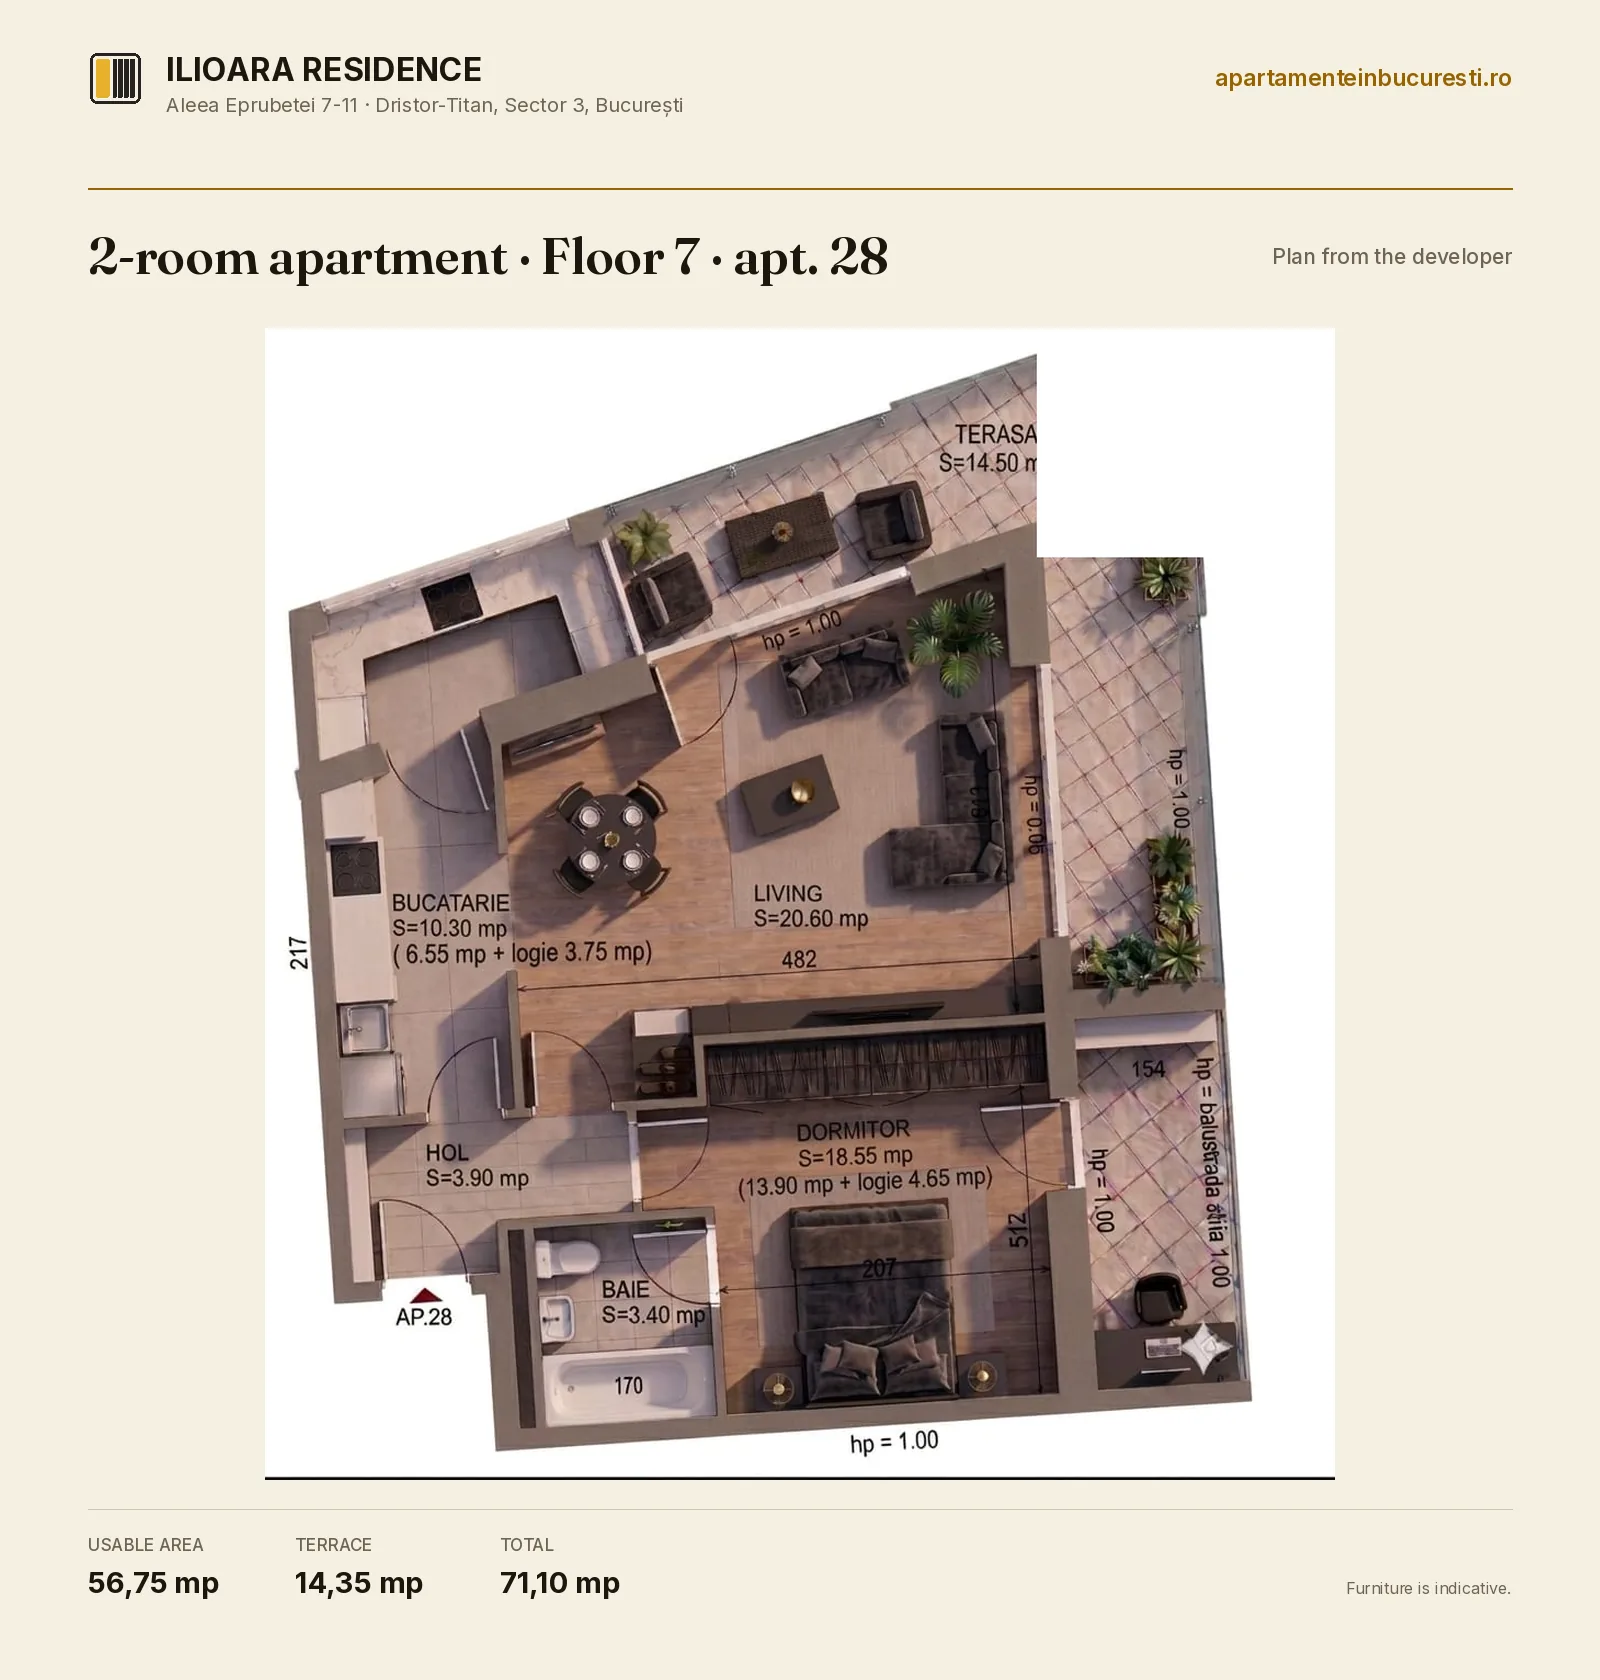
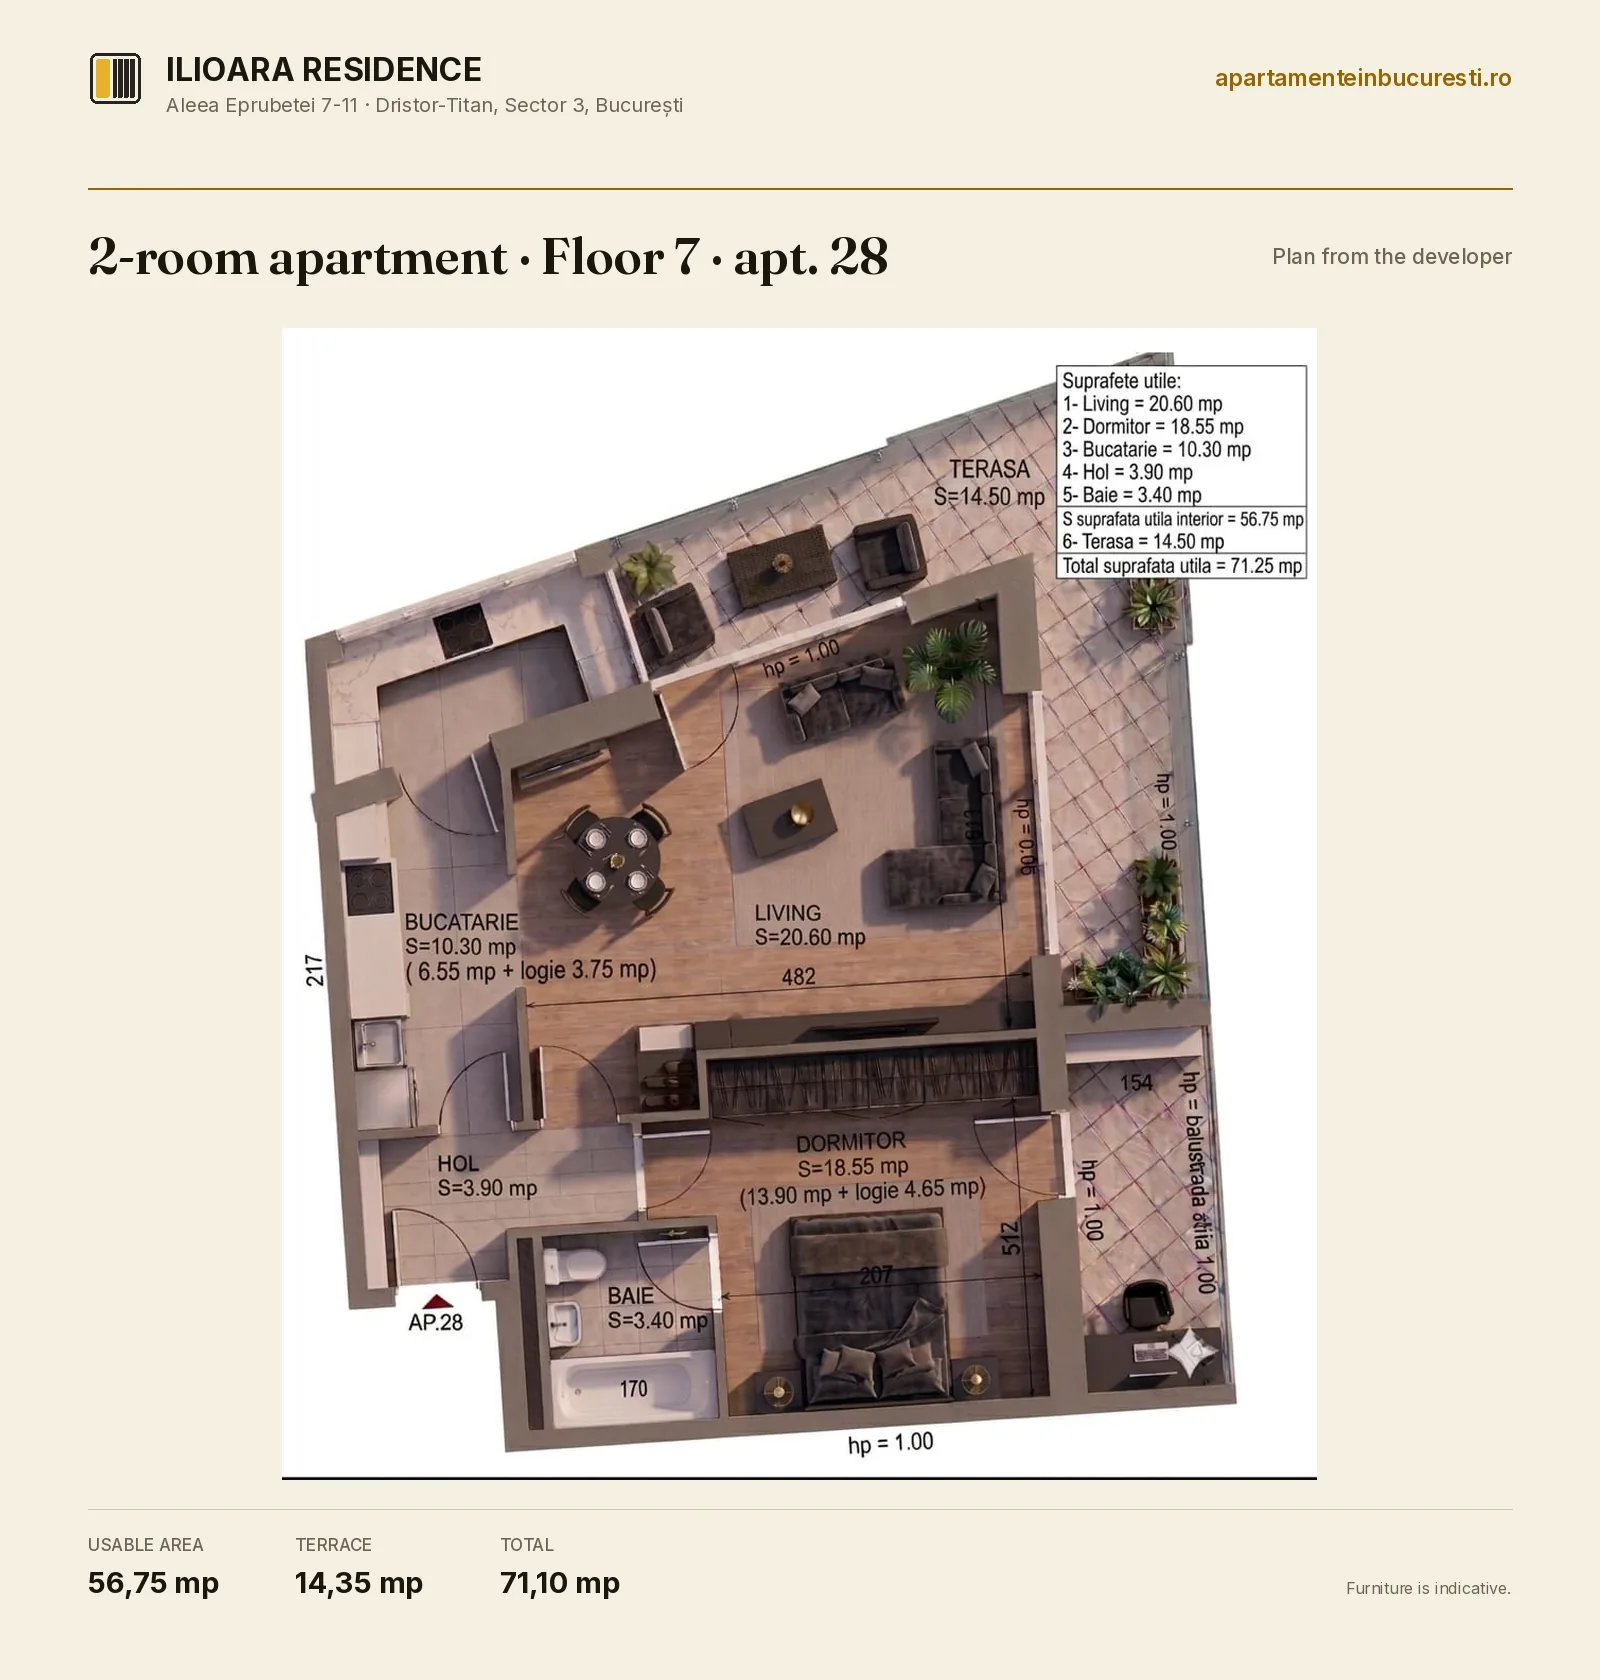
Etajul 7: casetele dezvoltatorului stau PESTE desen pe toate trei. Raman, si se explica
Diagnosticul, facut cu diff de pixeli, nu cu ochiul: am marcat pe original exact ce
sterge fiecare masca. Rezultat, caseta de suprafete se suprapune peste randare pe TOATE
cele trei planse de etaj 7, nu doar pe ap. 31:
- ap. 28: 25.376 pixeli de desen stersi, coltul terasei
- ap. 30: 32.246 pixeli de desen stersi
- ap. 31: la fel, gasit mai devreme

Deci se sterge doar ANTETUL, care sta pe hartie curata: ap. 28 y 0 - 0,030 (textul se
termina la 0,025), ap. 30 y 0 - 0,030, ap. 31 y 0 - 0,130. Casetele raman pe imagine.

Unde cifra lui difera de a noastra, o explica pagina:
- ap. 28: randarea scrie 71,25, lista de preturi zice 71,10. Nota adaugata, 5 limbi.
- ap. 31: 66,97 fata de 65,90. Nota exista deja.
- ap. 30: randarea scrie 66,75, la fel ca lista. Nimic de explicat.

Verificare noua, la marime reala si automata: caut blocuri albe dreptunghiulare in
interiorul desenului, care nu ating marginea. Zero pe toate cele 12. Contact sheet-ul
la 420px nu putea prinde asta.

Claude-Session: https://claude.ai/code/session_01L1B55aKnmJNQfi41fCw1wB

Changed region(s): [[0.1562, 0.1857, 0.8438, 0.8976]]

diff --git a/uk/apartamente/apartament-2-camere-etaj-7-ap-28/index.html b/uk/apartamente/apartament-2-camere-etaj-7-ap-28/index.html
@@ -155,7 +155,7 @@ body.mn-open .mn-x{opacity:1;visibility:visible;transition:opacity .4s ease .15s
 <h2 class="rv" data-fx="slide">План квартири</h2>
 <figure class="plan rv" data-fx="rise">
   <a href="/planuri/plan-ap-28-en-v2.webp" target="_blank" rel="noopener"><img src="/planuri/plan-ap-28-en-v2.webp" width="1600" height="1680" alt="План квартири 28, 2 кімнати, поверх 7, Ilioara Residence, Aleea Eprubetei 7-11" loading="lazy" decoding="async"></a>
-  <figcaption>План від забудовника. Корисна площа <b>56,75 м²</b>, тераса <b>14,35 м²</b>, разом <b>71,10 м²</b>. Меблі показано умовно.<br><a class="lupa" href="/planuri/plan-ap-28-en-v2.webp" target="_blank" rel="noopener">Відкрити план у повному розмірі &rarr;</a></figcaption>
+  <figcaption>План від забудовника. Корисна площа <b>56,75 м²</b>, тераса <b>14,35 м²</b>, разом <b>71,10 м²</b>. Меблі показано умовно. У рендері забудовника зазначено <b>71,25 м²</b> разом. Цифра, за якою продаємо, <b>71,10 м²</b>, узята з його переліку цін від червня 2026.<br><a class="lupa" href="/planuri/plan-ap-28-en-v2.webp" target="_blank" rel="noopener">Відкрити план у повному розмірі &rarr;</a></figcaption>
 </figure>
 <h2 class="rv" data-fx="blur">Повний перелік оздоблення — саме таким, яким квартиру передають</h2>
 <p class="pblock rv" data-fx="rise">Так виглядає квартира на момент передачі. Марки — ті, що зазначені в технічній специфікації забудовника; там, де написано «або аналогічний», це означає, що може бути поставлений рівноцінний виріб того самого класу.</p>

diff --git a/ar/apartamente/apartament-2-camere-etaj-7-ap-28/index.html b/ar/apartamente/apartament-2-camere-etaj-7-ap-28/index.html
@@ -166,7 +166,7 @@ html[dir="rtl"] .rv[data-fx="slide"]{transform:translateX(26px)}
 <h2 class="rv" data-fx="slide">مخطط الشقة</h2>
 <figure class="plan rv" data-fx="rise">
   <a href="/planuri/plan-ap-28-en-v2.webp" target="_blank" rel="noopener"><img src="/planuri/plan-ap-28-en-v2.webp" width="1600" height="1680" alt="مخطط الشقة 28، 2 غرف، الطابق 7، Ilioara Residence، Aleea Eprubetei 7-11" loading="lazy" decoding="async"></a>
-  <figcaption>مخطط من المطوّر. المساحة المفيدة <b>56,75 م²</b>، الشرفة <b>14,35 م²</b>، الإجمالي <b>71,10 م²</b>. الأثاث للتوضيح فقط.<br><a class="lupa" href="/planuri/plan-ap-28-en-v2.webp" target="_blank" rel="noopener">افتح المخطط بالحجم الكامل &rarr;</a></figcaption>
+  <figcaption>مخطط من المطوّر. المساحة المفيدة <b>56,75 م²</b>، الشرفة <b>14,35 م²</b>، الإجمالي <b>71,10 م²</b>. الأثاث للتوضيح فقط. يذكر مخطط المطوّر <b>71.25 م²</b> إجمالاً. الرقم الذي نبيع على أساسه، <b>71.10 م²</b>، مأخوذ من قائمة أسعاره لشهر يونيو 2026.<br><a class="lupa" href="/planuri/plan-ap-28-en-v2.webp" target="_blank" rel="noopener">افتح المخطط بالحجم الكامل &rarr;</a></figcaption>
 </figure>
 <h2 class="rv" data-fx="blur">قائمة التشطيبات الكاملة، تماماً كما تُسلَّم</h2>
 <p class="pblock rv" data-fx="rise">هكذا تبدو الشقة عند التسليم. العلامات التجارية هي الواردة في دفتر شروط المطوّر؛ وحيثما ورد «أو ما يماثله» فهذا يعني أنه يمكن تسليم منتج مكافئ من الفئة نفسها.</p>

diff --git a/he/apartamente/apartament-2-camere-etaj-7-ap-28/index.html b/he/apartamente/apartament-2-camere-etaj-7-ap-28/index.html
@@ -166,7 +166,7 @@ html[dir="rtl"] .rv[data-fx="slide"]{transform:translateX(26px)}
 <h2 class="rv" data-fx="slide">תוכנית הדירה</h2>
 <figure class="plan rv" data-fx="rise">
   <a href="/planuri/plan-ap-28-en-v2.webp" target="_blank" rel="noopener"><img src="/planuri/plan-ap-28-en-v2.webp" width="1600" height="1680" alt="תוכנית דירה 28, 2 חדרים, קומה 7, Ilioara Residence, Aleea Eprubetei 7-11" loading="lazy" decoding="async"></a>
-  <figcaption>תוכנית מהיזם. שטח מועיל <b>56,75 מ״ר</b>, מרפסת <b>14,35 מ״ר</b>, סך הכול <b>71,10 מ״ר</b>. הריהוט להמחשה בלבד.<br><a class="lupa" href="/planuri/plan-ap-28-en-v2.webp" target="_blank" rel="noopener">פתחו את התוכנית בגודל מלא &rarr;</a></figcaption>
+  <figcaption>תוכנית מהיזם. שטח מועיל <b>56,75 מ״ר</b>, מרפסת <b>14,35 מ״ר</b>, סך הכול <b>71,10 מ״ר</b>. הריהוט להמחשה בלבד. ברנדר של היזם רשום <b>71.25 מ״ר</b> בסך הכול. הנתון שלפיו אנחנו מוכרים, <b>71.10 מ״ר</b>, לקוח ממחירון יוני 2026 שלו.<br><a class="lupa" href="/planuri/plan-ap-28-en-v2.webp" target="_blank" rel="noopener">פתחו את התוכנית בגודל מלא &rarr;</a></figcaption>
 </figure>
 <h2 class="rv" data-fx="blur">רשימת הגימורים המלאה, בדיוק כפי שהדירה נמסרת</h2>
 <p class="pblock rv" data-fx="rise">כך נראית הדירה במסירה. המותגים הם אלה שמופיעים במפרט הטכני של היזם; היכן שכתוב “או דומה” הכוונה שאפשר לספק מוצר שווה ערך מאותה רמה.</p>

diff --git a/apartamente/apartament-2-camere-etaj-7-ap-28/index.html b/apartamente/apartament-2-camere-etaj-7-ap-28/index.html
@@ -162,7 +162,7 @@ body.mn-open .mn-x{opacity:1;visibility:visible;transition:opacity .4s ease .15s
 <h2 class="rv" data-fx="slide">Planul apartamentului</h2>
 <figure class="plan rv" data-fx="rise">
   <a href="/planuri/plan-ap-28-ro-v2.webp" target="_blank" rel="noopener"><img src="/planuri/plan-ap-28-ro-v2.webp" width="1600" height="1680" alt="Planul apartamentului 28, 2 camere, etajul 7, Ilioara Residence, Aleea Eprubetei 7-11" loading="lazy" decoding="async"></a>
-  <figcaption>Plan de la dezvoltator. Suprafață utilă <b>56,75 mp</b>, terasă <b>14,35 mp</b>, total <b>71,10 mp</b>. Mobilierul e orientativ.<br><a class="lupa" href="/planuri/plan-ap-28-ro-v2.webp" target="_blank" rel="noopener">Deschide planul la dimensiune mare &rarr;</a></figcaption>
+  <figcaption>Plan de la dezvoltator. Suprafață utilă <b>56,75 mp</b>, terasă <b>14,35 mp</b>, total <b>71,10 mp</b>. Mobilierul e orientativ. Randarea dezvoltatorului scrie <b>71,25 mp</b> total. Cifra pe care o vindem, <b>71,10 mp</b>, e cea din lista lui de prețuri din iunie 2026.<br><a class="lupa" href="/planuri/plan-ap-28-ro-v2.webp" target="_blank" rel="noopener">Deschide planul la dimensiune mare &rarr;</a></figcaption>
 </figure>
 <h2 class="rv" data-fx="blur">Lista completă de finisaje, exact cum se predă</h2>
 <p class="pblock rv" data-fx="rise">Așa arată apartamentul la predare. Mărcile sunt cele din caietul de sarcini al dezvoltatorului; unde scrie „sau similar" înseamnă că se poate livra un produs echivalent din aceeași clasă.</p>

diff --git a/en/apartamente/apartament-2-camere-etaj-7-ap-28/index.html b/en/apartamente/apartament-2-camere-etaj-7-ap-28/index.html
@@ -155,7 +155,7 @@ body.mn-open .mn-x{opacity:1;visibility:visible;transition:opacity .4s ease .15s
 <h2 class="rv" data-fx="slide">Apartment plan</h2>
 <figure class="plan rv" data-fx="rise">
   <a href="/planuri/plan-ap-28-en-v2.webp" target="_blank" rel="noopener"><img src="/planuri/plan-ap-28-en-v2.webp" width="1600" height="1680" alt="Plan of apartment 28, 2 rooms, floor 7, Ilioara Residence, Aleea Eprubetei 7-11" loading="lazy" decoding="async"></a>
-  <figcaption>Plan from the developer. Usable area <b>56,75 sqm</b>, terrace <b>14,35 sqm</b>, total <b>71,10 sqm</b>. Furniture is indicative.<br><a class="lupa" href="/planuri/plan-ap-28-en-v2.webp" target="_blank" rel="noopener">Open the plan at full size &rarr;</a></figcaption>
+  <figcaption>Plan from the developer. Usable area <b>56,75 sqm</b>, terrace <b>14,35 sqm</b>, total <b>71,10 sqm</b>. Furniture is indicative. The developer's render states <b>71.25 sqm</b> total. The figure we sell on, <b>71.10 sqm</b>, comes from his June 2026 price list.<br><a class="lupa" href="/planuri/plan-ap-28-en-v2.webp" target="_blank" rel="noopener">Open the plan at full size &rarr;</a></figcaption>
 </figure>
 <h2 class="rv" data-fx="blur">The complete list of finishes, exactly as handed over</h2>
 <p class="pblock rv" data-fx="rise">This is how the flat looks at handover. The brands are the ones in the developer's specification; where it says "or similar", an equivalent product from the same class can be supplied.</p>
